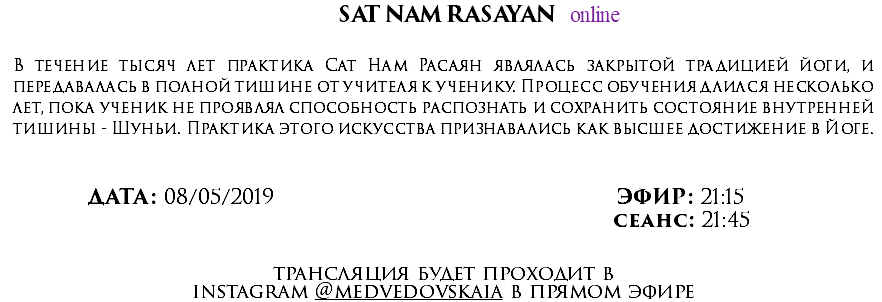
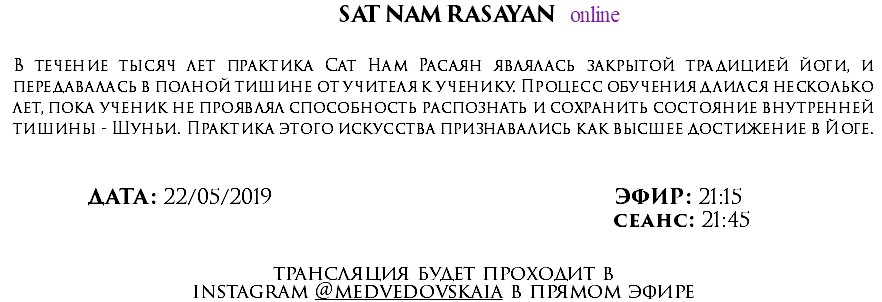
Add files via upload

Changed region(s): [[0.7041, 0.6258, 0.8571, 0.6854], [0.1837, 0.6258, 0.3367, 0.6854]]

diff --git a/scripts/museconfig.js b/scripts/museconfig.js
@@ -1,5 +1,5 @@
 /*
  Copyright 2011-2016 Adobe Systems Incorporated. All Rights Reserved.
 */
-(function(){if(!window.museConfigLoadedAndExecuted){window.museConfigLoadedAndExecuted=!0;var d={waitSeconds:0,paths:{"html5shiv":"scripts/html5shiv.js?crc=4241844378","jquery":"scripts/jquery-1.8.3.min.js?crc=209076791","jquery.musemenu":"scripts/jquery.musemenu.js?crc=3988640741","jquery.museoverlay":"scripts/jquery.museoverlay.js?crc=255055991","jquery.musepolyfill.bgsize":"scripts/jquery.musepolyfill.bgsize.js?crc=4045269973","jquery.museresponsive":"scripts/jquery.museresponsive.js?crc=3991588253","jquery.scrolleffects":"scripts/jquery.scrolleffects.js?crc=3926425104","jquery.watch":"scripts/jquery.watch.js?crc=399457859","musedisclosure":"scripts/musedisclosure.js?crc=472981680","museutils":"scripts/museutils.js?crc=420836567","musewpdisclosure":"scripts/musewpdisclosure.js?crc=403040780","musewpslideshow":"scripts/musewpslideshow.js?crc=4267795568","pie":"scripts/pie.js?crc=3831537696","taketori":"scripts/taketori.js?crc=214255737","touchswipe":"scripts/touchswipe.js?crc=4065839998","webpro":"scripts/webpro.js?crc=57448180","whatinput":"scripts/whatinput.js?crc=86476730"},map:{"*":{jquery:"jquery-private"},"jquery-private":{jquery:"jquery"}}};require.undef("jquery");define("jquery-private",["jquery"],function(b){b=b.noConflict(!0);if("undefined"===typeof $)window.$=window.jQuery=b;return b});if(true&&document.location.protocol!="https:")d.paths.jquery=["http://musecdn2.businesscatalyst.com/scripts/4.0/jquery-1.8.3.min",d.paths.jquery];requirejs.config(d);muse_init()}})();
+(function(){if(!window.museConfigLoadedAndExecuted){window.museConfigLoadedAndExecuted=!0;var d={waitSeconds:0,paths:{"html5shiv":"scripts/html5shiv.js?crc=4241844378","jquery":"scripts/jquery-1.8.3.min.js?crc=209076791","jquery.musemenu":"scripts/jquery.musemenu.js?crc=3988640741","jquery.museoverlay":"scripts/jquery.museoverlay.js?crc=255055991","jquery.musepolyfill.bgsize":"scripts/jquery.musepolyfill.bgsize.js?crc=4045269973","jquery.museresponsive":"scripts/jquery.museresponsive.js?crc=3991588253","jquery.scrolleffects":"scripts/jquery.scrolleffects.js?crc=3926425104","jquery.watch":"scripts/jquery.watch.js?crc=399457859","musedisclosure":"scripts/musedisclosure.js?crc=472981680","museutils":"scripts/museutils.js?crc=420836567","musewpdisclosure":"scripts/musewpdisclosure.js?crc=403040780","musewpslideshow":"scripts/musewpslideshow.js?crc=4267795568","pie":"scripts/pie.js?crc=3831537696","taketori":"scripts/taketori.js?crc=214255737","touchswipe":"scripts/touchswipe.js?crc=4065839998","webpro":"scripts/webpro.js?crc=57448180","whatinput":"scripts/whatinput.js?crc=86476730"},map:{"*":{jquery:"jquery-private"},"jquery-private":{jquery:"jquery"}}};require.undef("jquery");define("jquery-private",["jquery"],function(b){b=b.noConflict(!0);if("undefined"===typeof $)window.$=window.jQuery=b;return b});if(true&&document.location.protocol!="https:")d.paths.jquery=["http://musecdn.businesscatalyst.com/scripts/4.0/jquery-1.8.3.min",d.paths.jquery];requirejs.config(d);muse_init()}})();
 ;(function(){if(!("undefined"==typeof Muse||"undefined"==typeof Muse.assets)){var a=function(a,b){for(var c=0,d=a.length;c<d;c++)if(a[c]==b)return c;return-1}(Muse.assets.required,"museconfig.js");if(-1!=a){Muse.assets.required.splice(a,1);for(var a=document.getElementsByTagName("meta"),b=0,c=a.length;b<c;b++){var d=a[b];if("generator"==d.getAttribute("name")){"2017.1.0.379"!=d.getAttribute("content")&&Muse.assets.outOfDate.push("museconfig.js");break}}}}})();

diff --git a/phone/index.html b/phone/index.html
@@ -29,7 +29,7 @@ if(typeof Muse == "undefined") window.Muse = {}; window.Muse.assets = {"required
       <img class="block" id="u1378_img" src="../images/260112x112.jpg?crc=4238458482" alt="" width="112" height="112"/>
      </div>
      <div class="museBGSize grpelem" id="u1267"><!-- simple frame --></div>
-     <img class="grpelem" id="u1289-26" alt="&nbsp;SAT NAM RASAYAN online В течение тысяч лет практика Сат Нам Расаян являлась закрытой традицией йоги, и передавалась в полной тишине от учителя к ученику. Процесс обучения длился несколько лет, пока ученик не проявлял способность распознать и сохранить состояние внутренней тишины - Шуньи. Практика этого искусства признавались как высшее достижение в Йоге. ДАТА: 08/05/2019 ЭФИР: 21:15 СЕАНС: 21:45 трансляция будет проходит в instagram @medvedovskaia в прямом эфире" width="364" height="379" src="../images/u1289-26.png?crc=4063748724"/><!-- rasterized frame -->
+     <img class="grpelem" id="u1289-26" alt="&nbsp;SAT NAM RASAYAN online В течение тысяч лет практика Сат Нам Расаян являлась закрытой традицией йоги, и передавалась в полной тишине от учителя к ученику. Процесс обучения длился несколько лет, пока ученик не проявлял способность распознать и сохранить состояние внутренней тишины - Шуньи. Практика этого искусства признавались как высшее достижение в Йоге. ДАТА: 22/05/2019 ЭФИР: 21:15 СЕАНС: 21:45 трансляция будет проходит в instagram @medvedovskaia в прямом эфире" width="364" height="379" src="../images/u1289-26.png?crc=18849779"/><!-- rasterized frame -->
      <div class="clearfix grpelem" id="u1300"><!-- group -->
       <div class="clearfix grpelem" id="pu1302-13"><!-- group -->
        <img class="grpelem" id="u1302-13" alt="&nbsp;2000 р Руб. 1500 руб." width="139" height="31" src="../images/u1302-13.png?crc=3948134378"/><!-- rasterized frame -->
@@ -73,6 +73,6 @@ Muse.Utils.transformMarkupToFixBrowserProblems();/* body */
 
 </script>
   <!-- RequireJS script -->
-  <script src="../scripts/require.js?crc=3861931657" type="text/javascript" async data-main="../scripts/museconfig.js?crc=278381782" onload="if (requirejs) requirejs.onError = function(requireType, requireModule) { if (requireType && requireType.toString && requireType.toString().indexOf && 0 <= requireType.toString().indexOf('#scripterror')) window.Muse.assets.check(); }" onerror="window.Muse.assets.check();"></script>
+  <script src="../scripts/require.js?crc=3861931657" type="text/javascript" async data-main="../scripts/museconfig.js?crc=144853533" onload="if (requirejs) requirejs.onError = function(requireType, requireModule) { if (requireType && requireType.toString && requireType.toString().indexOf && 0 <= requireType.toString().indexOf('#scripterror')) window.Muse.assets.check(); }" onerror="window.Muse.assets.check();"></script>
    </body>
 </html>

diff --git a/index.html b/index.html
@@ -53,7 +53,7 @@ if(typeof Muse == "undefined") window.Muse = {}; window.Muse.assets = {"required
            </div>
           </div>
           <img class="grpelem" id="u344-4" alt="ЗАПИСАТЬСЯ НА ЦЕЛИТЕЛЬНЫЙ СЕАНС" width="533" height="101" src="images/u344-4.png?crc=195814626"/><!-- rasterized frame -->
-          <img class="grpelem" id="u170-28" alt="&nbsp;SAT NAM RASAYAN online В течение тысяч лет практика Сат Нам Расаян являлась закрытой традицией йоги, и передавалась в полной тишине от учителя к ученику. Процесс обучения длился несколько лет, пока ученик не проявлял способность распознать и сохранить состояние внутренней тишины - Шуньи. Практика этого искусства признавались как высшее достижение в Йоге. ДАТА: 08/05/2019 ЭФИР: 21:15 сеанс: 21:45 трансляция будет проходит в instagram @medvedovskaia в прямом эфире" width="882" height="302" src="images/u170-28.png?crc=399977831"/><!-- rasterized frame -->
+          <img class="grpelem" id="u170-28" alt="&nbsp;SAT NAM RASAYAN online В течение тысяч лет практика Сат Нам Расаян являлась закрытой традицией йоги, и передавалась в полной тишине от учителя к ученику. Процесс обучения длился несколько лет, пока ученик не проявлял способность распознать и сохранить состояние внутренней тишины - Шуньи. Практика этого искусства признавались как высшее достижение в Йоге. ДАТА: 22/05/2019 ЭФИР: 21:15 сеанс: 21:45 трансляция будет проходит в instagram @medvedovskaia в прямом эфире" width="882" height="302" src="images/u170-28.png?crc=241736337"/><!-- rasterized frame -->
          </div>
         </div>
        </div>
@@ -112,6 +112,6 @@ Muse.Utils.transformMarkupToFixBrowserProblems();/* body */
 
 </script>
   <!-- RequireJS script -->
-  <script src="scripts/require.js?crc=3861931657" type="text/javascript" async data-main="scripts/museconfig.js?crc=278381782" onload="if (requirejs) requirejs.onError = function(requireType, requireModule) { if (requireType && requireType.toString && requireType.toString().indexOf && 0 <= requireType.toString().indexOf('#scripterror')) window.Muse.assets.check(); }" onerror="window.Muse.assets.check();"></script>
+  <script src="scripts/require.js?crc=3861931657" type="text/javascript" async data-main="scripts/museconfig.js?crc=144853533" onload="if (requirejs) requirejs.onError = function(requireType, requireModule) { if (requireType && requireType.toString && requireType.toString().indexOf && 0 <= requireType.toString().indexOf('#scripterror')) window.Muse.assets.check(); }" onerror="window.Muse.assets.check();"></script>
    </body>
 </html>
